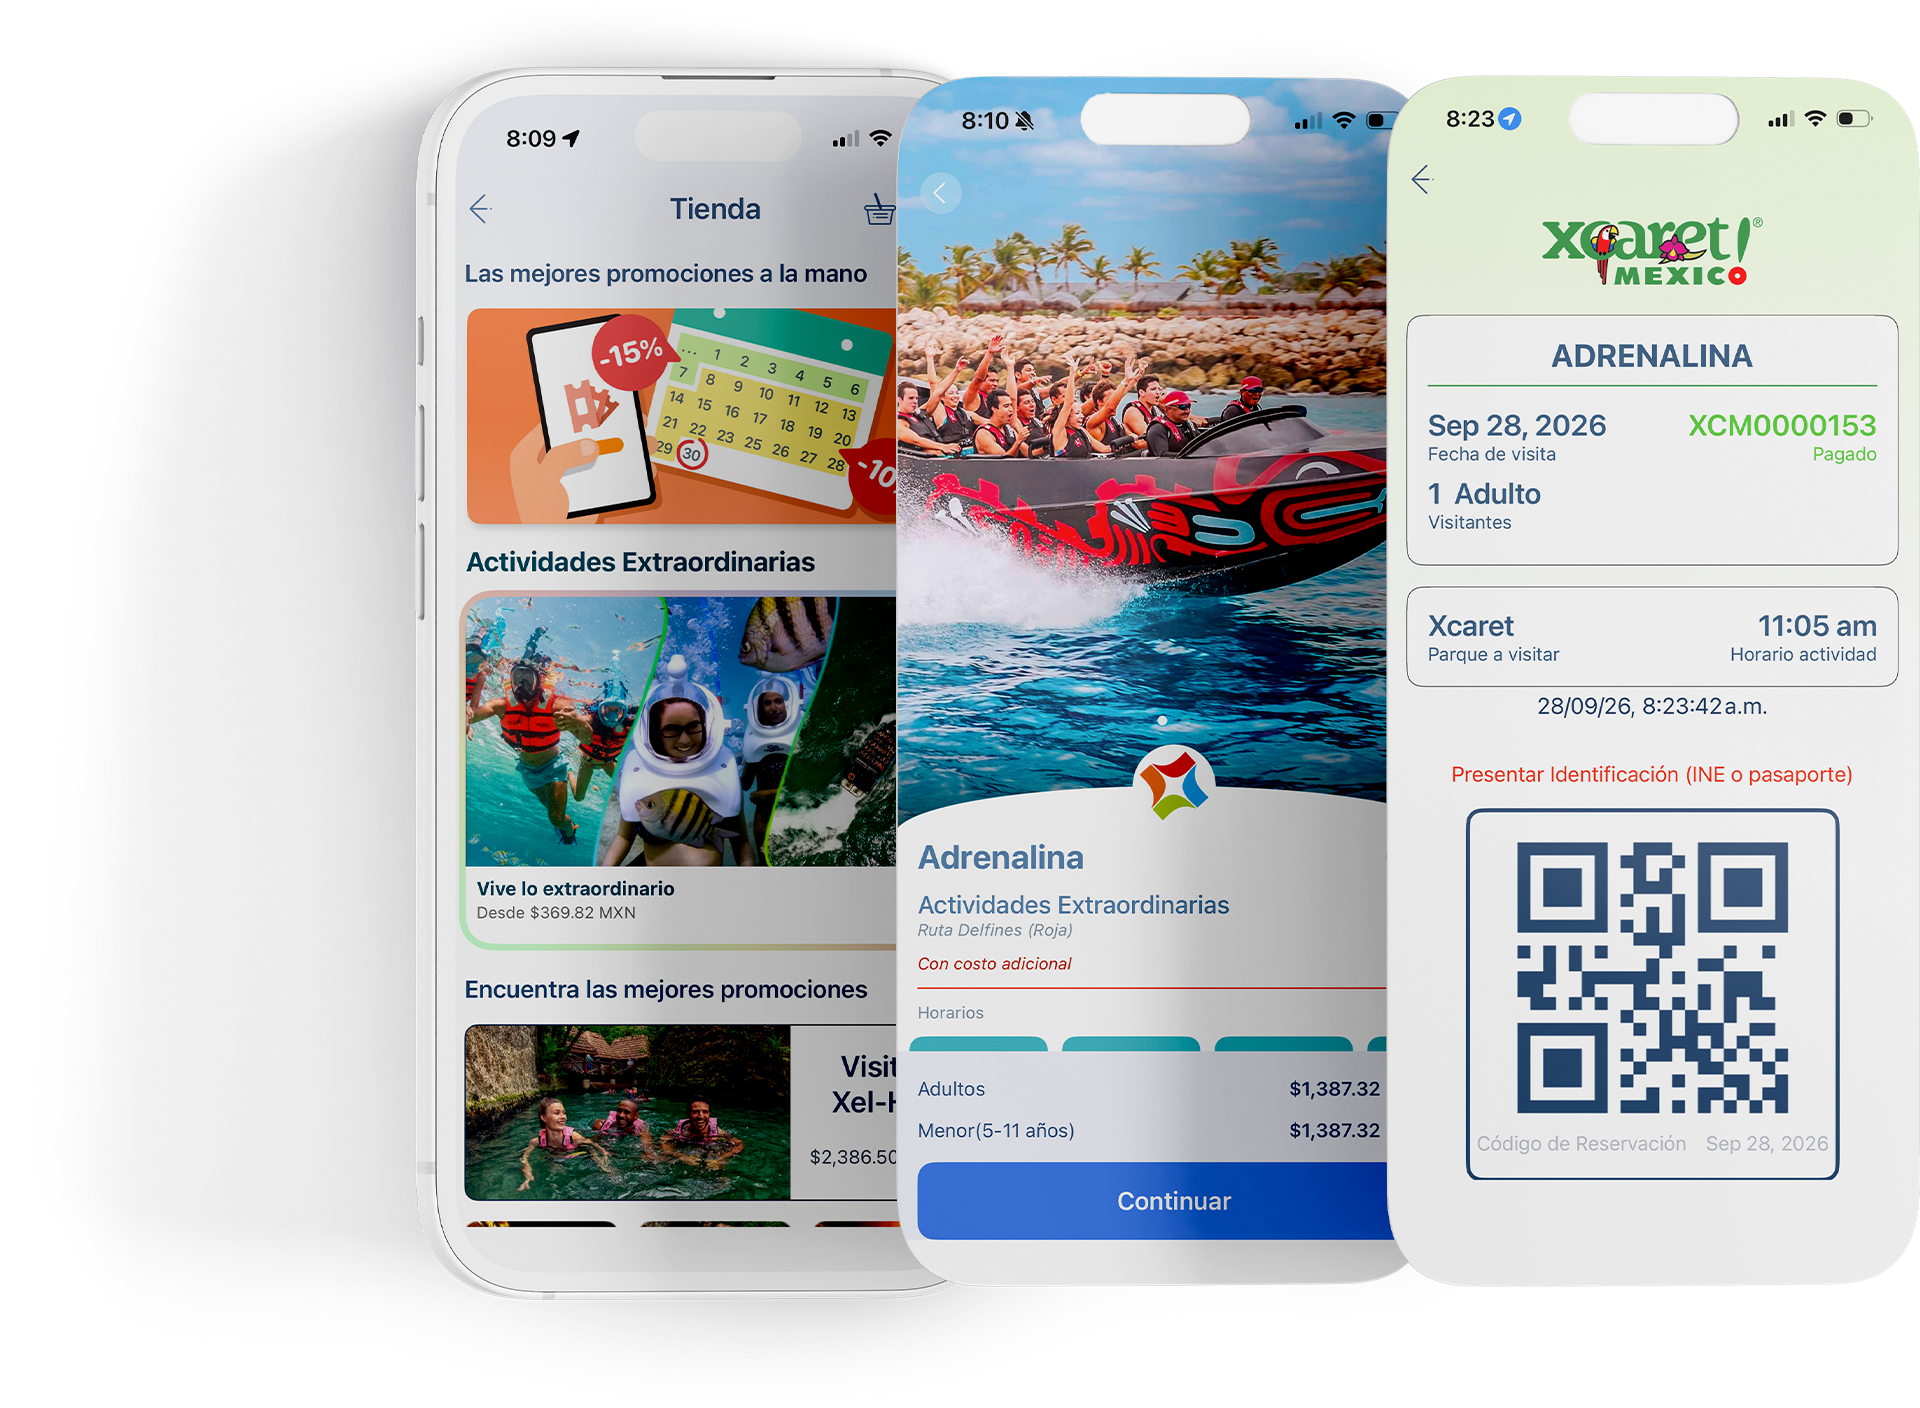
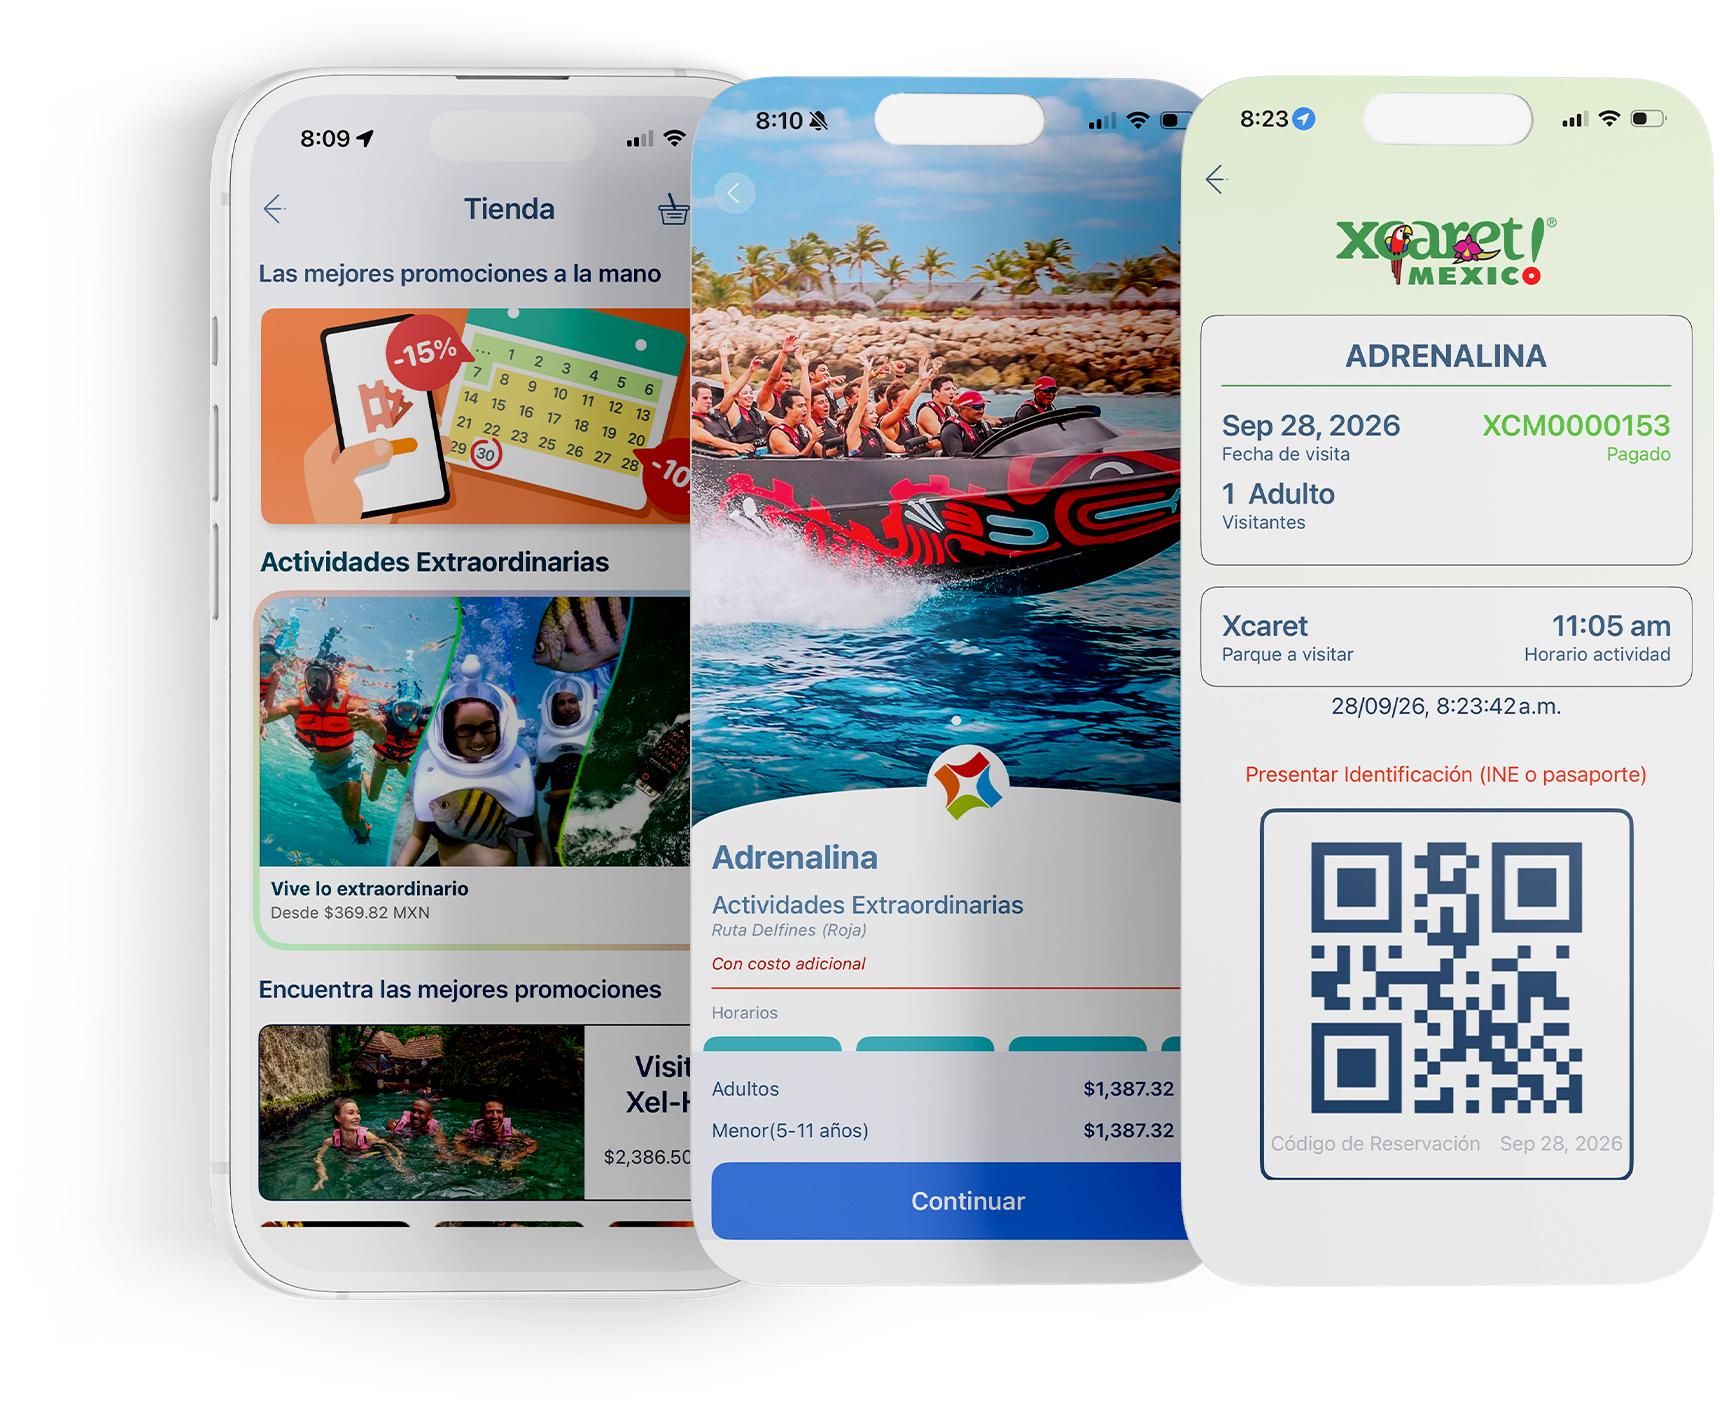
actividades mb

diff --git a/src/sections/Actividades.jsx b/src/sections/Actividades.jsx
@@ -23,7 +23,7 @@ export default function Actividades() {
       src={assetUrl("/images/flamingo-left.png")}
       from="left"
       float={12}
-      className="absolute -left-10 -top-16 z-0 w-[120px] md:-left-[20%] md:top-0 md:w-[36%]"
+      className="absolute -left-[70%] -top-16 z-0 w-[100%] md:-left-[20%] md:top-0 md:w-[36%]"
     />
 
     <div className="relative z-10 grid grid-cols-1 items-center gap-8 px-5 text-center md:grid-cols-[1fr_1.2fr] md:pl-[24%] md:pr-[6%] md:text-left">
@@ -36,7 +36,7 @@ export default function Actividades() {
         <ParallaxImage
           src={assetUrl("/images/actividades-screens.png")}
           alt="Actividades disponibles en la App Xcaret"
-          className="mx-auto block w-full md:min-w-[820px]"
+          className="mx-auto block w-full sm:w-[320px] md:w-[10/12] xl:min-w-[720px]"
           speed={30}
           rotate={1.5}
         />
